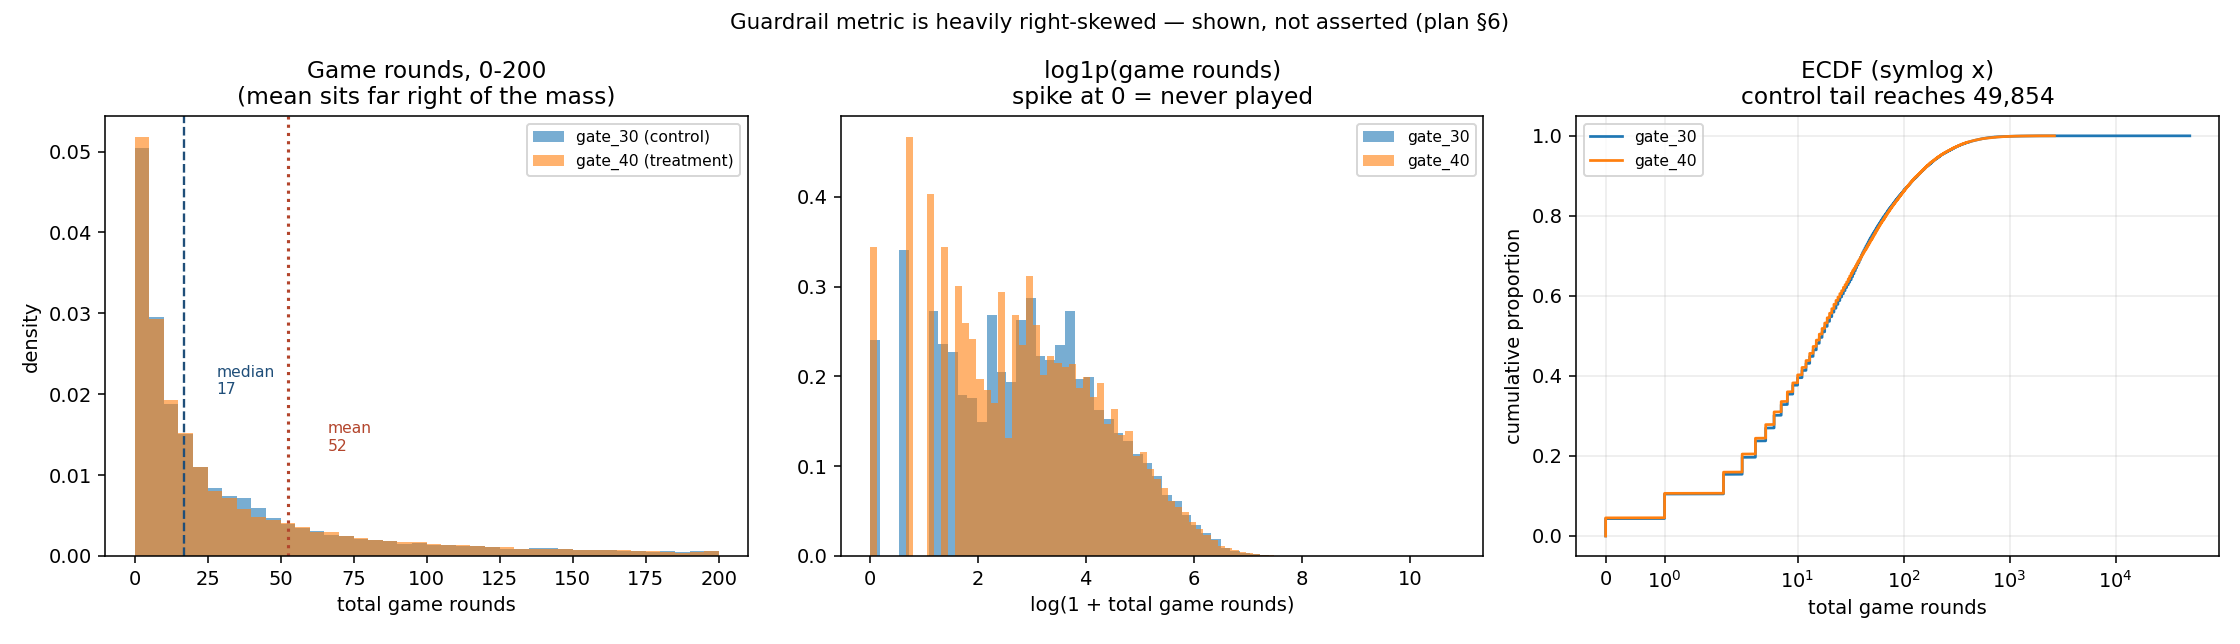
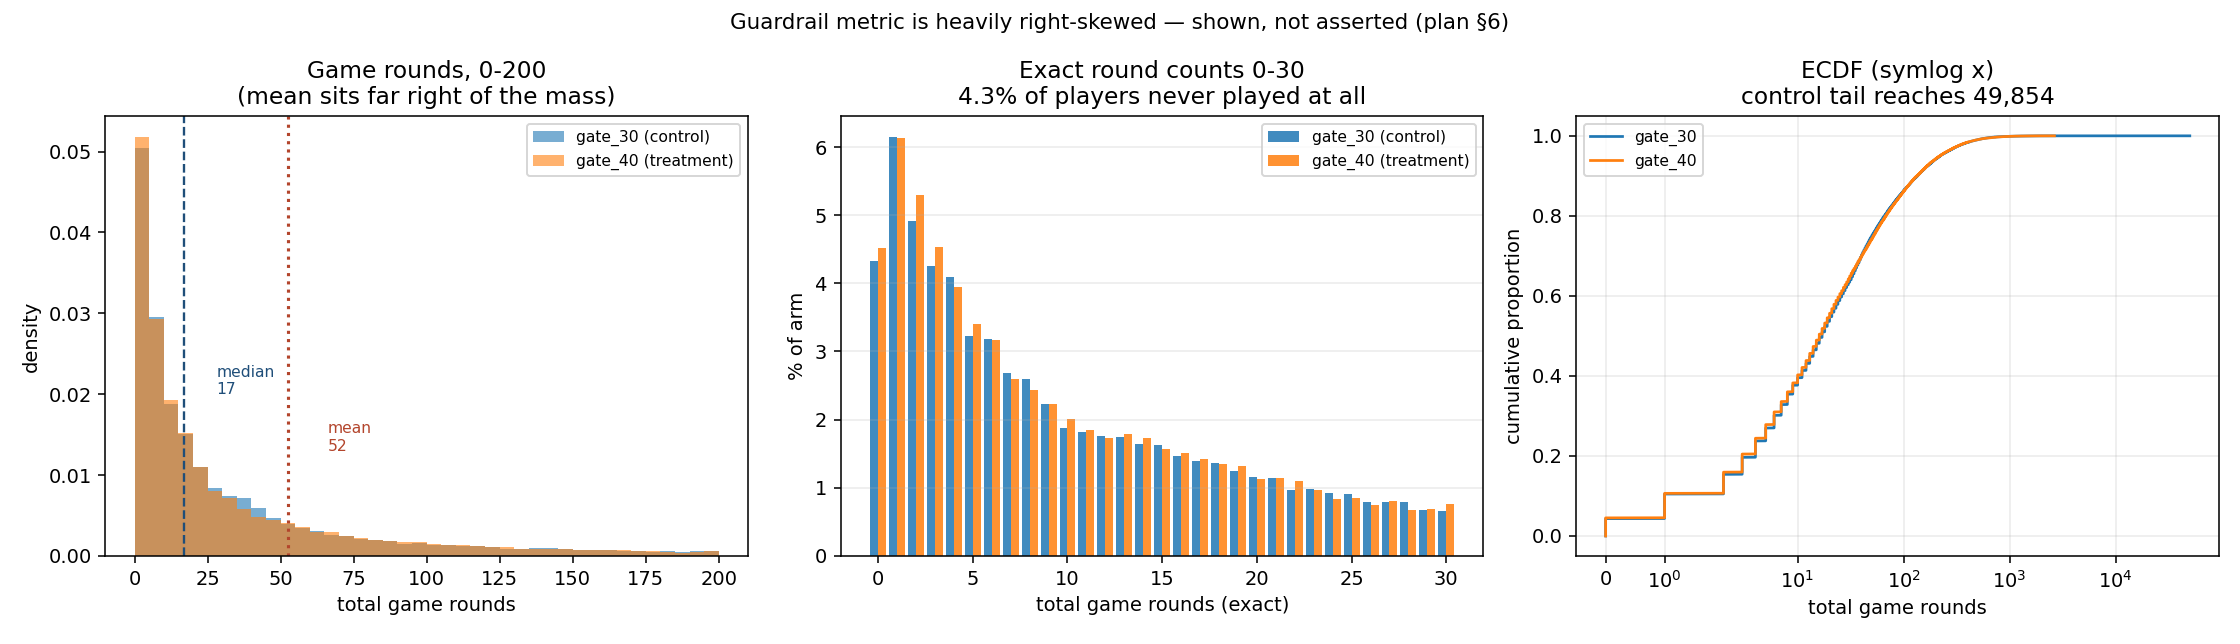
Fix two figure defects found by reading the rendered PNGs
The guardrail middle panel binned log1p of integer round counts, which left a
comb of empty buckets at small values and read as structure that is not in the
data. Replaced with exact counts 0-30, which shows the 4.3% never-played mass
directly and makes the arms' near-identical low tail visible.

The CUPED sample-size bars labelled 24,351 while the README and JSON reported
24,352 -- the plot used the unrounded value where everything else uses ceil.

Also verified rather than assumed: two full pipeline runs produce byte-identical
JSON across all 8 result files, so the seeded-reproducibility claim in the README
holds.

Changed region(s): [[0.3438, 0.2174, 0.6562, 0.9006], [0.4375, 0.0932, 0.6562, 0.2795], [0.4688, 0.9317, 0.5938, 0.9627]]

diff --git a/src/03_secondary_guardrail.py b/src/03_secondary_guardrail.py
@@ -296,11 +296,23 @@ axes[0].annotate(f"mean\n{g_c.mean():.0f}", xy=(g_c.mean(), 0),
                  xytext=(66, 0.013), fontsize=8, color="#b3452c")
 axes[0].legend(fontsize=8)
 
-axes[1].hist(np.log1p(g_c), bins=60, alpha=0.6, label=CONTROL, density=True)
-axes[1].hist(np.log1p(g_t), bins=60, alpha=0.6, label=TREATMENT, density=True)
-axes[1].set_title("log1p(game rounds)\nspike at 0 = never played")
-axes[1].set_xlabel("log(1 + total game rounds)")
+# Exact counts for the low range. Binning log1p of integer counts leaves a
+# comb of empty buckets at small values, which reads as structure that is not
+# there. Plotting the exact counts is both honest and more informative.
+kmax = 30
+ks = np.arange(0, kmax + 1)
+prop_c = np.array([(g_c == k).mean() for k in ks]) * 100
+prop_t = np.array([(g_t == k).mean() for k in ks]) * 100
+bw = 0.42
+axes[1].bar(ks - bw / 2, prop_c, bw, label=f"{CONTROL} (control)", alpha=0.85)
+axes[1].bar(ks + bw / 2, prop_t, bw, label=f"{TREATMENT} (treatment)", alpha=0.85)
+axes[1].set_title(f"Exact round counts 0-{kmax}\n"
+                  f"{(g_c == 0).mean():.1%} of players never played at all")
+axes[1].set_xlabel("total game rounds (exact)")
+axes[1].set_ylabel("% of arm")
 axes[1].legend(fontsize=8)
+axes[1].grid(alpha=0.25, axis="y")
+axes[1].grid(alpha=0.25, axis="y")
 
 for arr, lab in ((g_c, CONTROL), (g_t, TREATMENT)):
     xs = np.sort(arr)

diff --git a/src/sim/sim_cuped.py b/src/sim/sim_cuped.py
@@ -274,7 +274,7 @@ ax.grid(alpha=0.25)
 
 ax = axes[2]
 labels = ["plain", "CUPED"]
-vals = [n_plain, n_cuped]
+vals = [np.ceil(n_plain), np.ceil(n_cuped)]  # match the reported figures
 bars = ax.bar(labels, vals, color=["#b3452c", "#1f4e79"], alpha=0.88)
 for b, v in zip(bars, vals):
     ax.text(b.get_x() + b.get_width() / 2, v * 1.01, f"{v:,.0f}", ha="center",
